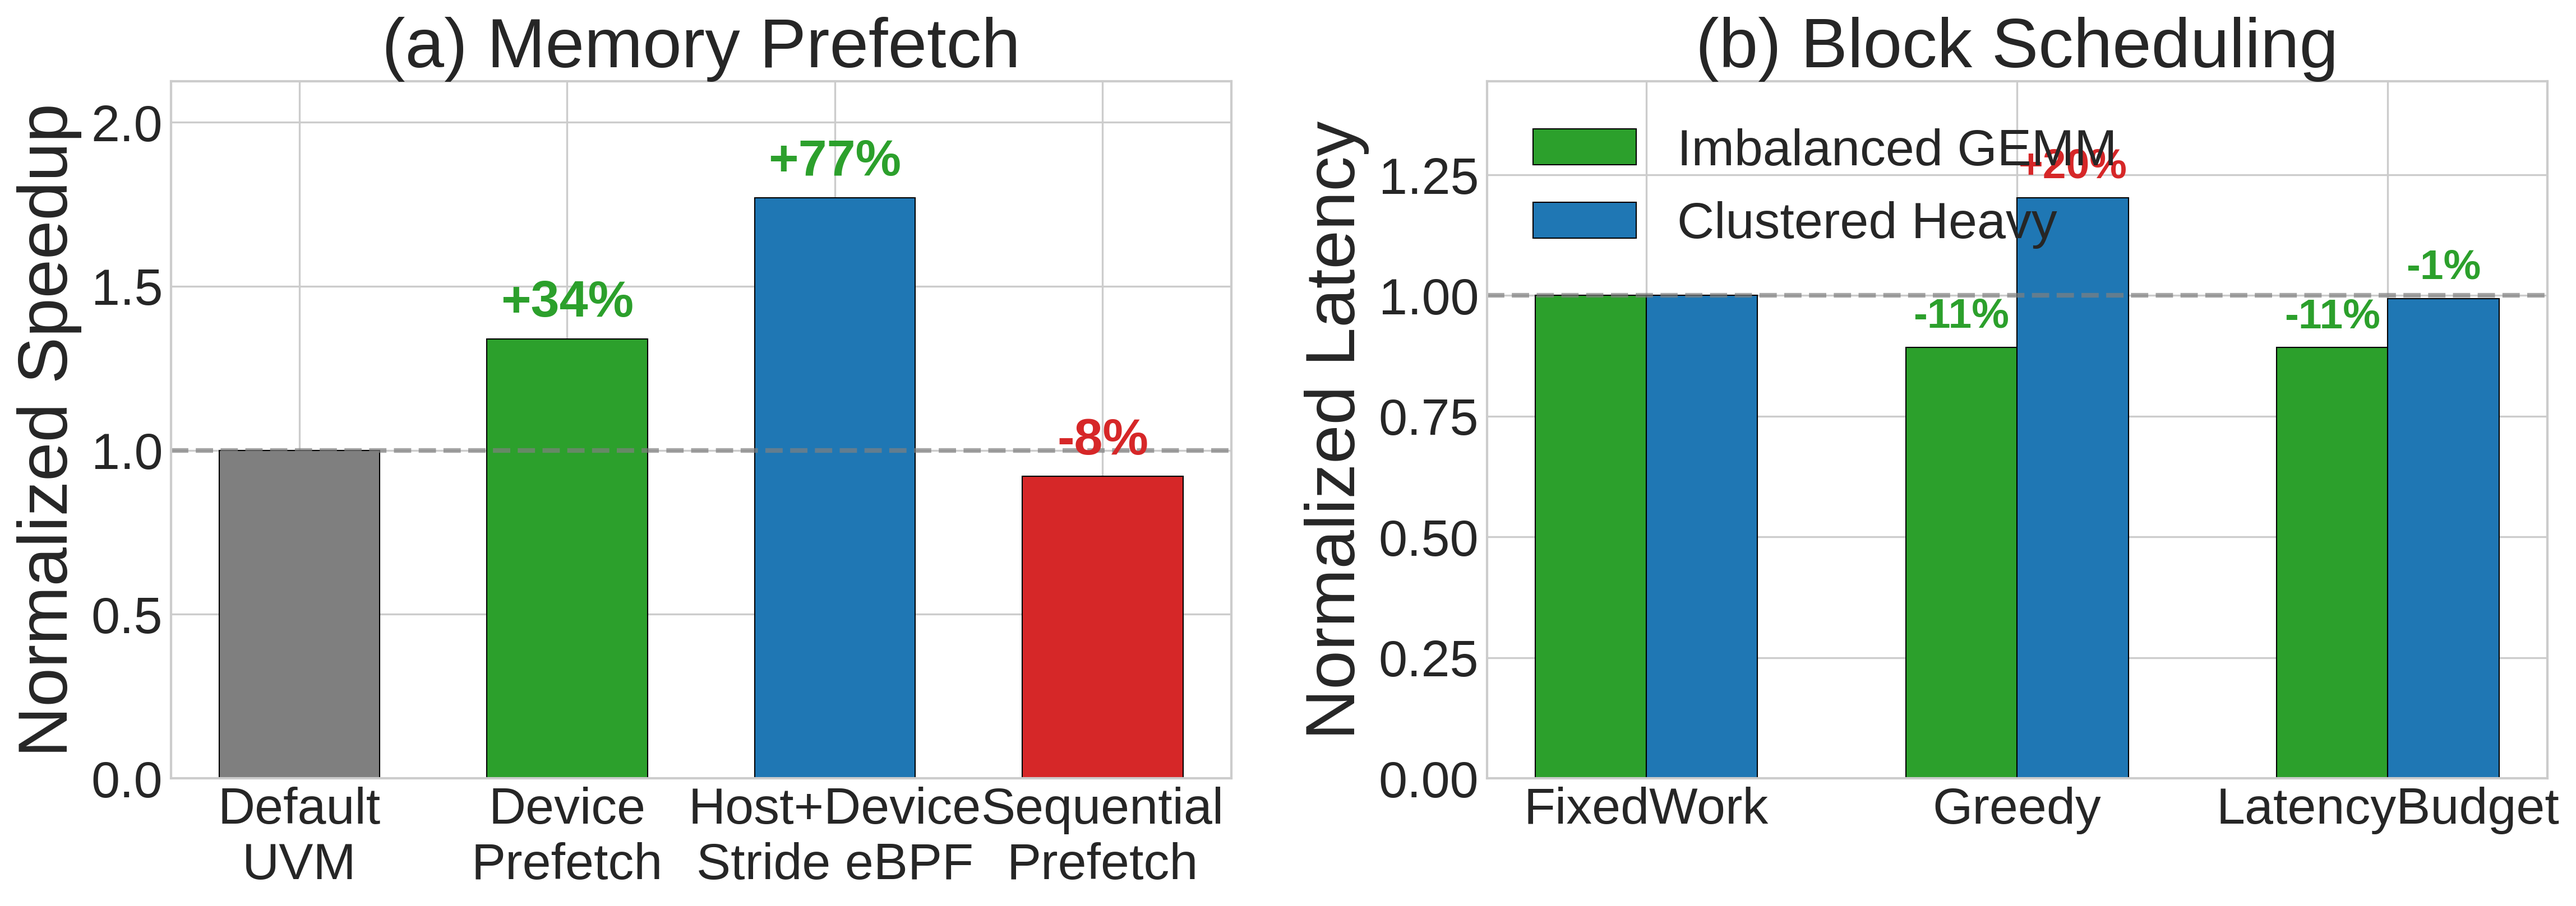
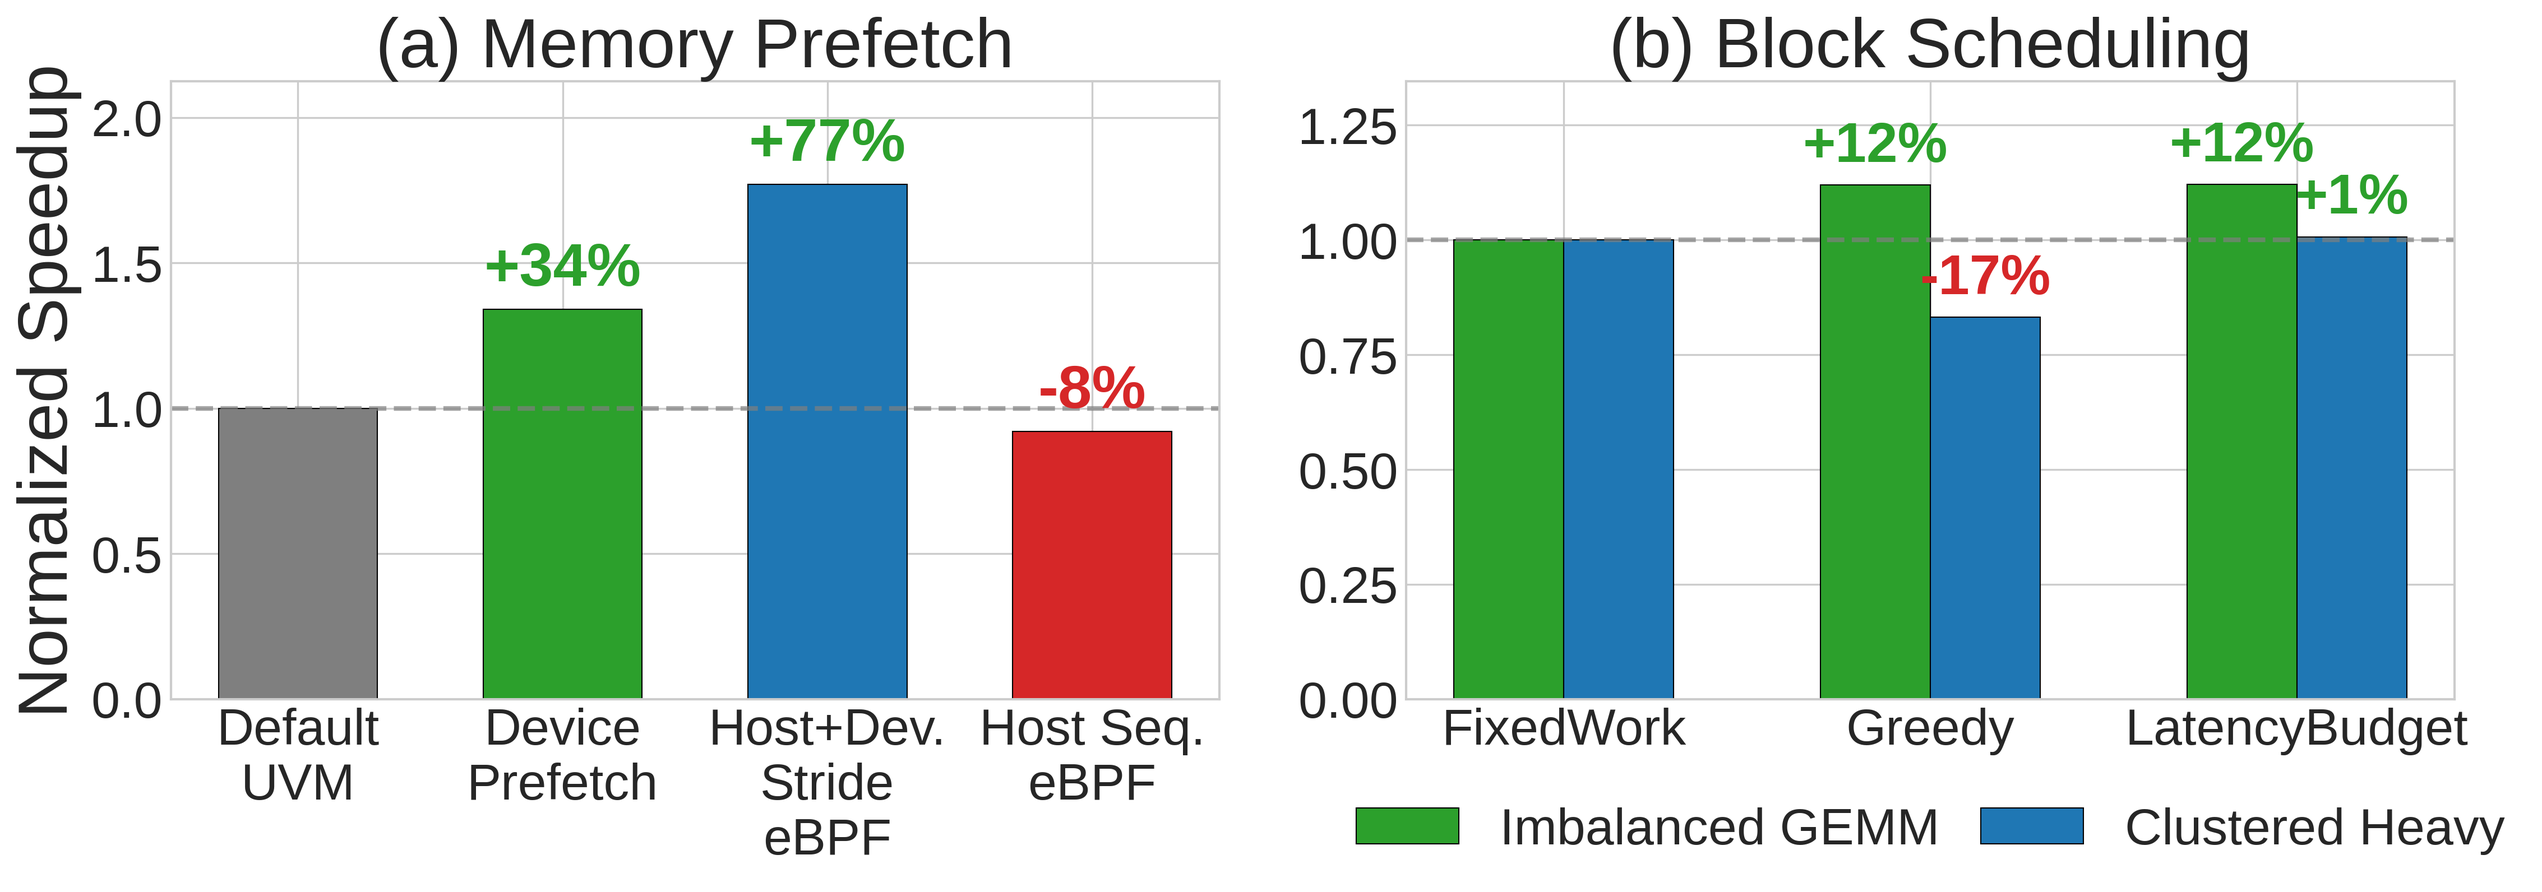
Update microbenchmark plots and evaluation caption for clarity

diff --git a/img/results-raw/clc/plot_microbench_combined.py b/img/results-raw/clc/plot_microbench_combined.py
@@ -24,7 +24,7 @@ fig, (ax1, ax2) = plt.subplots(1, 2, figsize=(16, 6))
 # (a) Memory Prefetch Microbenchmark
 # Normalized speedup (higher = better), baseline = 1.0
 # ============================================================
-mem_policies = ['Default\nUVM', 'Device\nPrefetch', 'Host+Device\nStride eBPF', 'Sequential\nPrefetch']
+mem_policies = ['Default\nUVM', 'Device\nPrefetch', 'Host+Dev.\nStride\neBPF', 'Host Seq.\neBPF']
 mem_speedups = [1.0, 1.34, 1.77, 0.92]
 mem_colors = ['#7f7f7f', '#2ca02c', '#1f77b4', '#d62728']
 
@@ -44,7 +44,7 @@ for i, (bar, val) in enumerate(zip(bars_m, mem_speedups)):
                     xy=(bar.get_x() + bar.get_width()/2, val),
                     xytext=(0, 5),
                     textcoords='offset points',
-                    ha='center', va='bottom', fontsize=22, color=color, fontweight='bold')
+                    ha='center', va='bottom', fontsize=26, color=color, fontweight='bold')
 
 ax1.set_ylabel('Normalized Speedup')
 ax1.set_title('(a) Memory Prefetch')
@@ -63,41 +63,42 @@ policies = ['FixedWork', 'Greedy', 'LatencyBudget']
 runtimes_a = [0.1019, 0.0910, 0.0909]  # Imbalanced GEMM
 runtimes_b = [14.8, 17.8, 14.7]        # ClusteredHeavy
 
-# Normalize to FixedWork baseline
-norm_a = [r / runtimes_a[0] for r in runtimes_a]
-norm_b = [r / runtimes_b[0] for r in runtimes_b]
+# Normalize to speedup (baseline / actual), higher = better
+speedup_a = [runtimes_a[0] / r for r in runtimes_a]
+speedup_b = [runtimes_b[0] / r for r in runtimes_b]
 
 x_s = np.arange(len(policies))
 width = 0.3
 
-bars_imb = ax2.bar(x_s - width/2, norm_a, width,
+bars_imb = ax2.bar(x_s - width/2, speedup_a, width,
                    label='Imbalanced GEMM', color='#2ca02c', edgecolor='black', linewidth=0.5)
-bars_clh = ax2.bar(x_s + width/2, norm_b, width,
+bars_clh = ax2.bar(x_s + width/2, speedup_b, width,
                    label='Clustered Heavy', color='#1f77b4', edgecolor='black', linewidth=0.5)
 
 # Baseline reference line
 ax2.axhline(y=1.0, color='gray', linestyle='--', linewidth=2, alpha=0.7)
 
 # Annotations for non-baseline policies
-for bars, norms in [(bars_imb, norm_a), (bars_clh, norm_b)]:
-    for i, (bar, val) in enumerate(zip(bars, norms)):
+for bars, speedups in [(bars_imb, speedup_a), (bars_clh, speedup_b)]:
+    for i, (bar, val) in enumerate(zip(bars, speedups)):
         if i == 0:  # skip FixedWork baseline
             continue
         change = (val - 1.0) * 100
         sign = '+' if change >= 0 else ''
-        color = '#d62728' if change > 0 else '#2ca02c'
+        color = '#2ca02c' if change > 0 else '#d62728'
         ax2.annotate(f'{sign}{change:.0f}%',
                     xy=(bar.get_x() + bar.get_width()/2, val),
                     xytext=(0, 5),
                     textcoords='offset points',
-                    ha='center', va='bottom', fontsize=18, color=color, fontweight='bold')
+                    ha='center', va='bottom',
+                    fontsize=24, color=color, fontweight='bold')
 
-ax2.set_ylabel('Normalized Latency')
+ax2.set_ylabel('')
 ax2.set_title('(b) Block Scheduling')
 ax2.set_xticks(x_s)
 ax2.set_xticklabels(policies)
-ax2.set_ylim(0, max(norm_b) * 1.2)
-ax2.legend(loc='upper left')
+ax2.set_ylim(0, max(max(speedup_a), max(speedup_b)) * 1.2)
+ax2.legend(loc='upper center', bbox_to_anchor=(0.5, -0.10), ncol=2, columnspacing=0.8)
 ax2.set_axisbelow(True)
 
 plt.tight_layout()

diff --git a/tex/eval.tex b/tex/eval.tex
@@ -42,7 +42,7 @@ We evaluate \sys on GPT-OSS-120B MXFP4 MoE (59~GiB, 116.83B parameters) in llama
 \begin{figure}
 \centering
 \includegraphics[width=\columnwidth]{img/results-raw/clc/microbench_combined.pdf}
-\caption{Microbenchmarks: (a) memory prefetch policies on stride vector-add (1.25$\times$ oversubscription); (b) block scheduling policies on two GEMM workloads. Both normalized to baseline.}
+\caption{Microbenchmarks (normalized speedup, higher is better): (a) memory prefetch policies on stride vector-add (1.25$\times$ oversubscription); (b) block scheduling policies on two GEMM workloads.}
 \label{fig:clc-policies}
 
 \end{figure}
